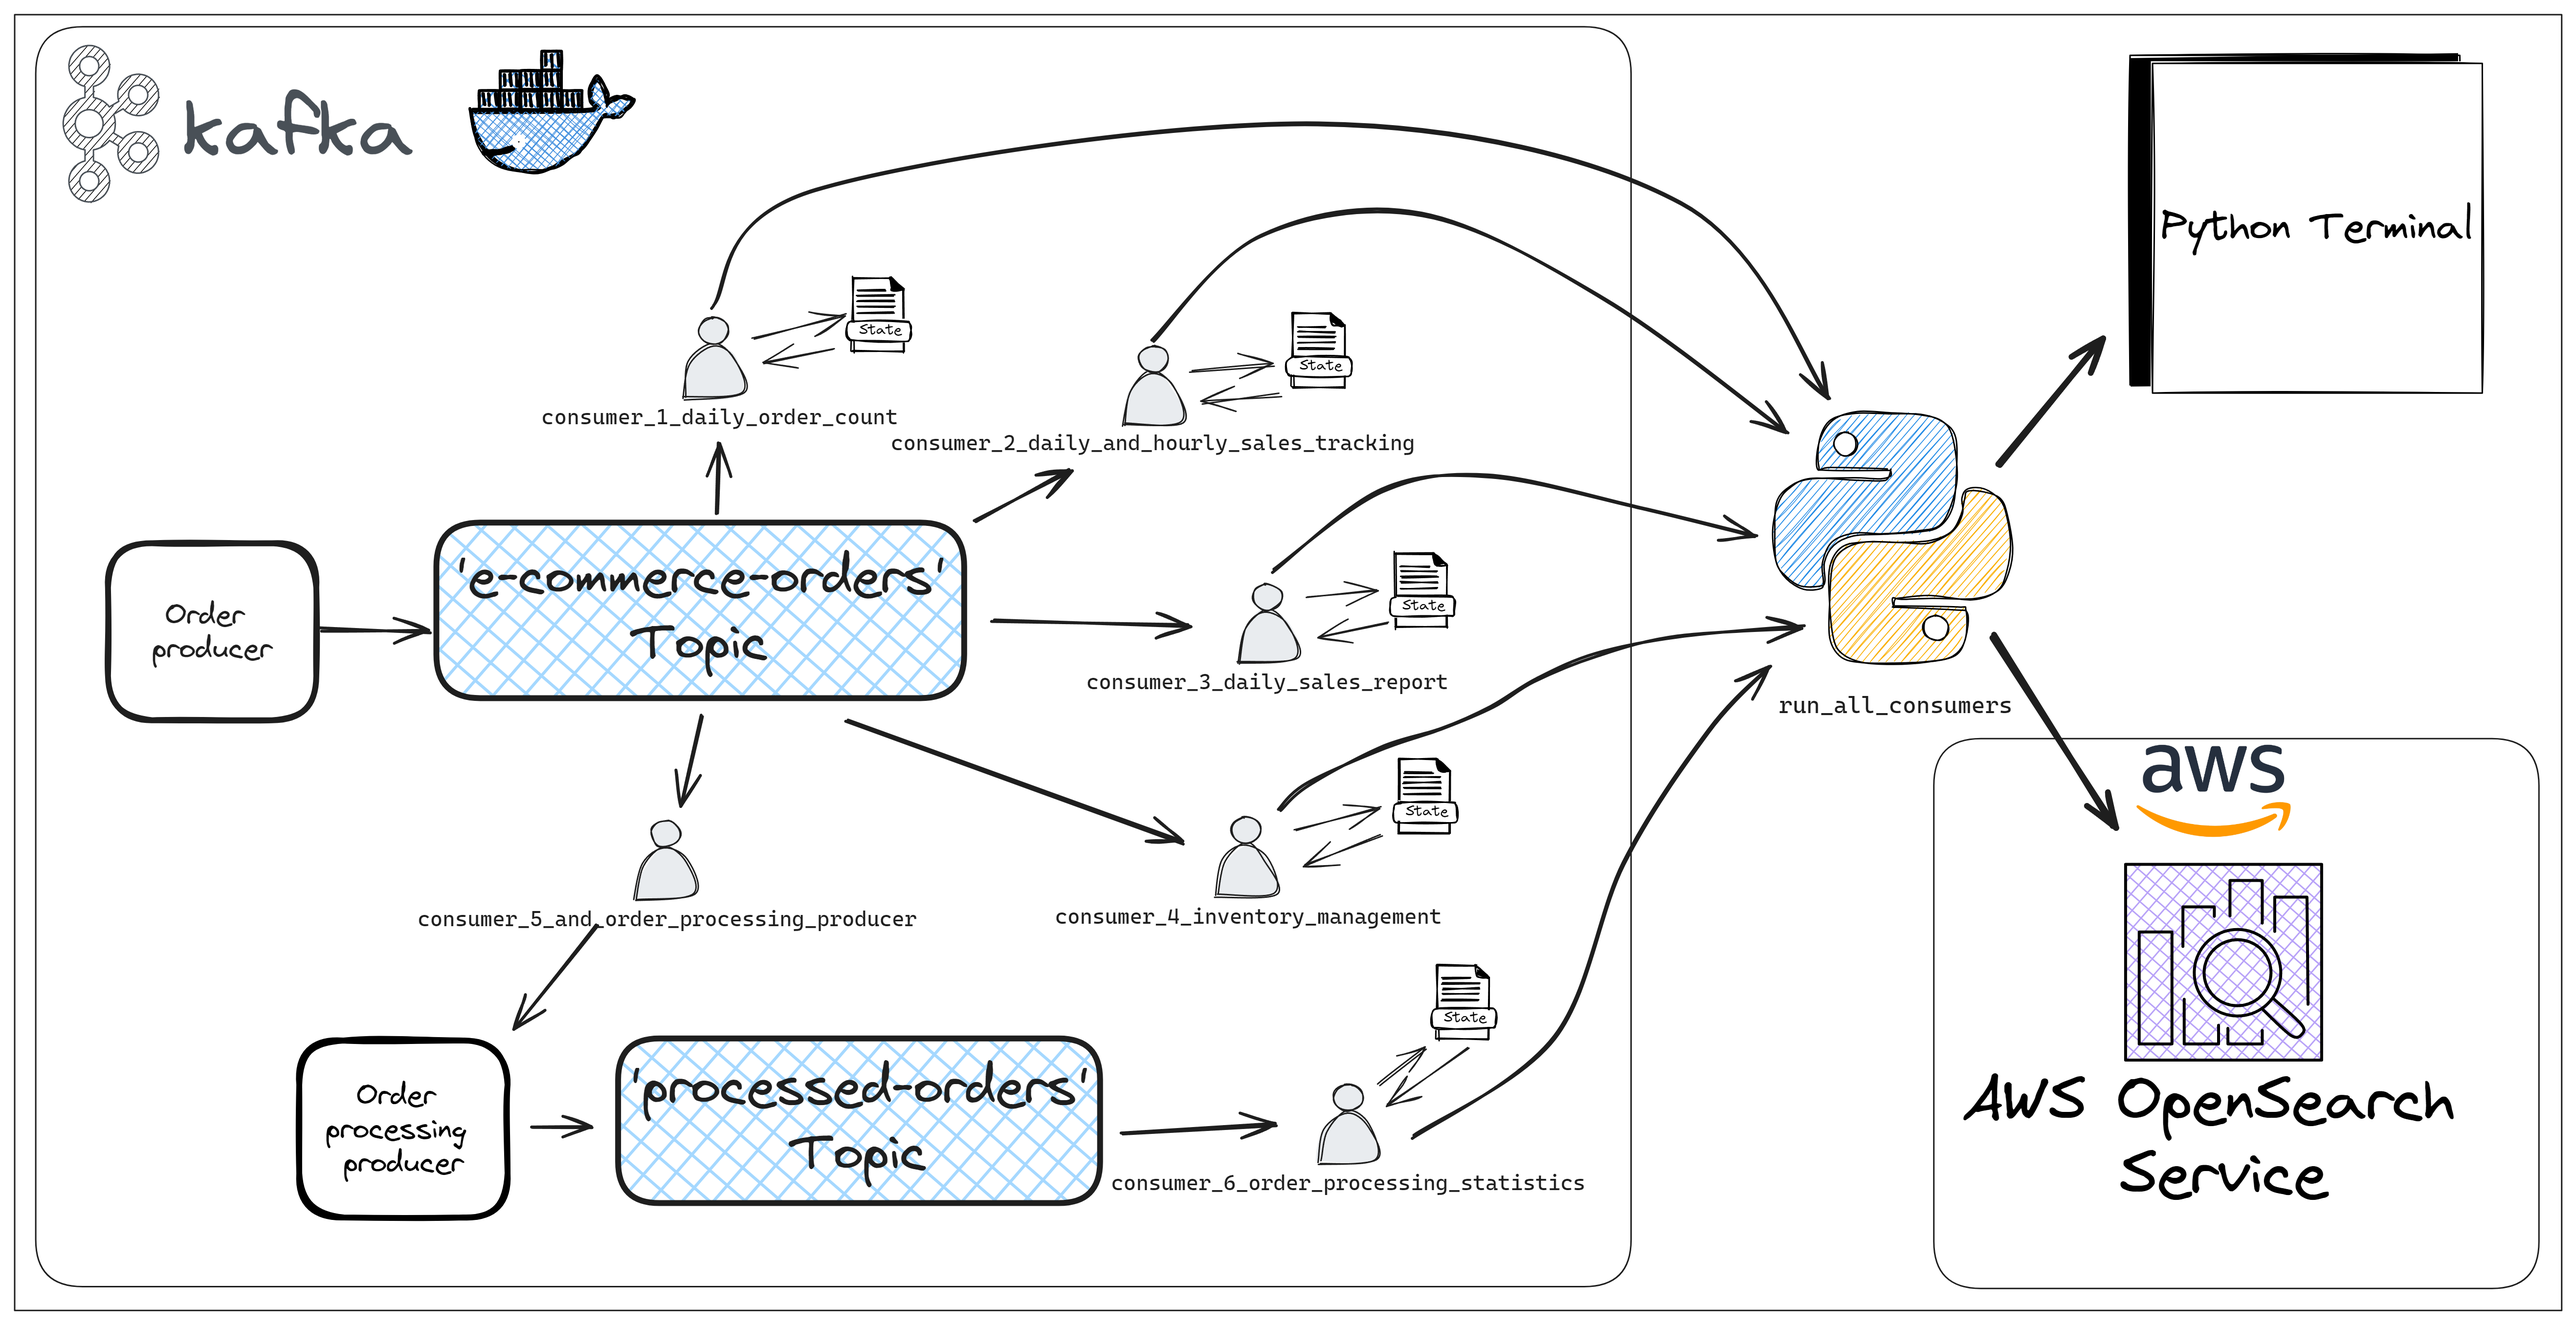
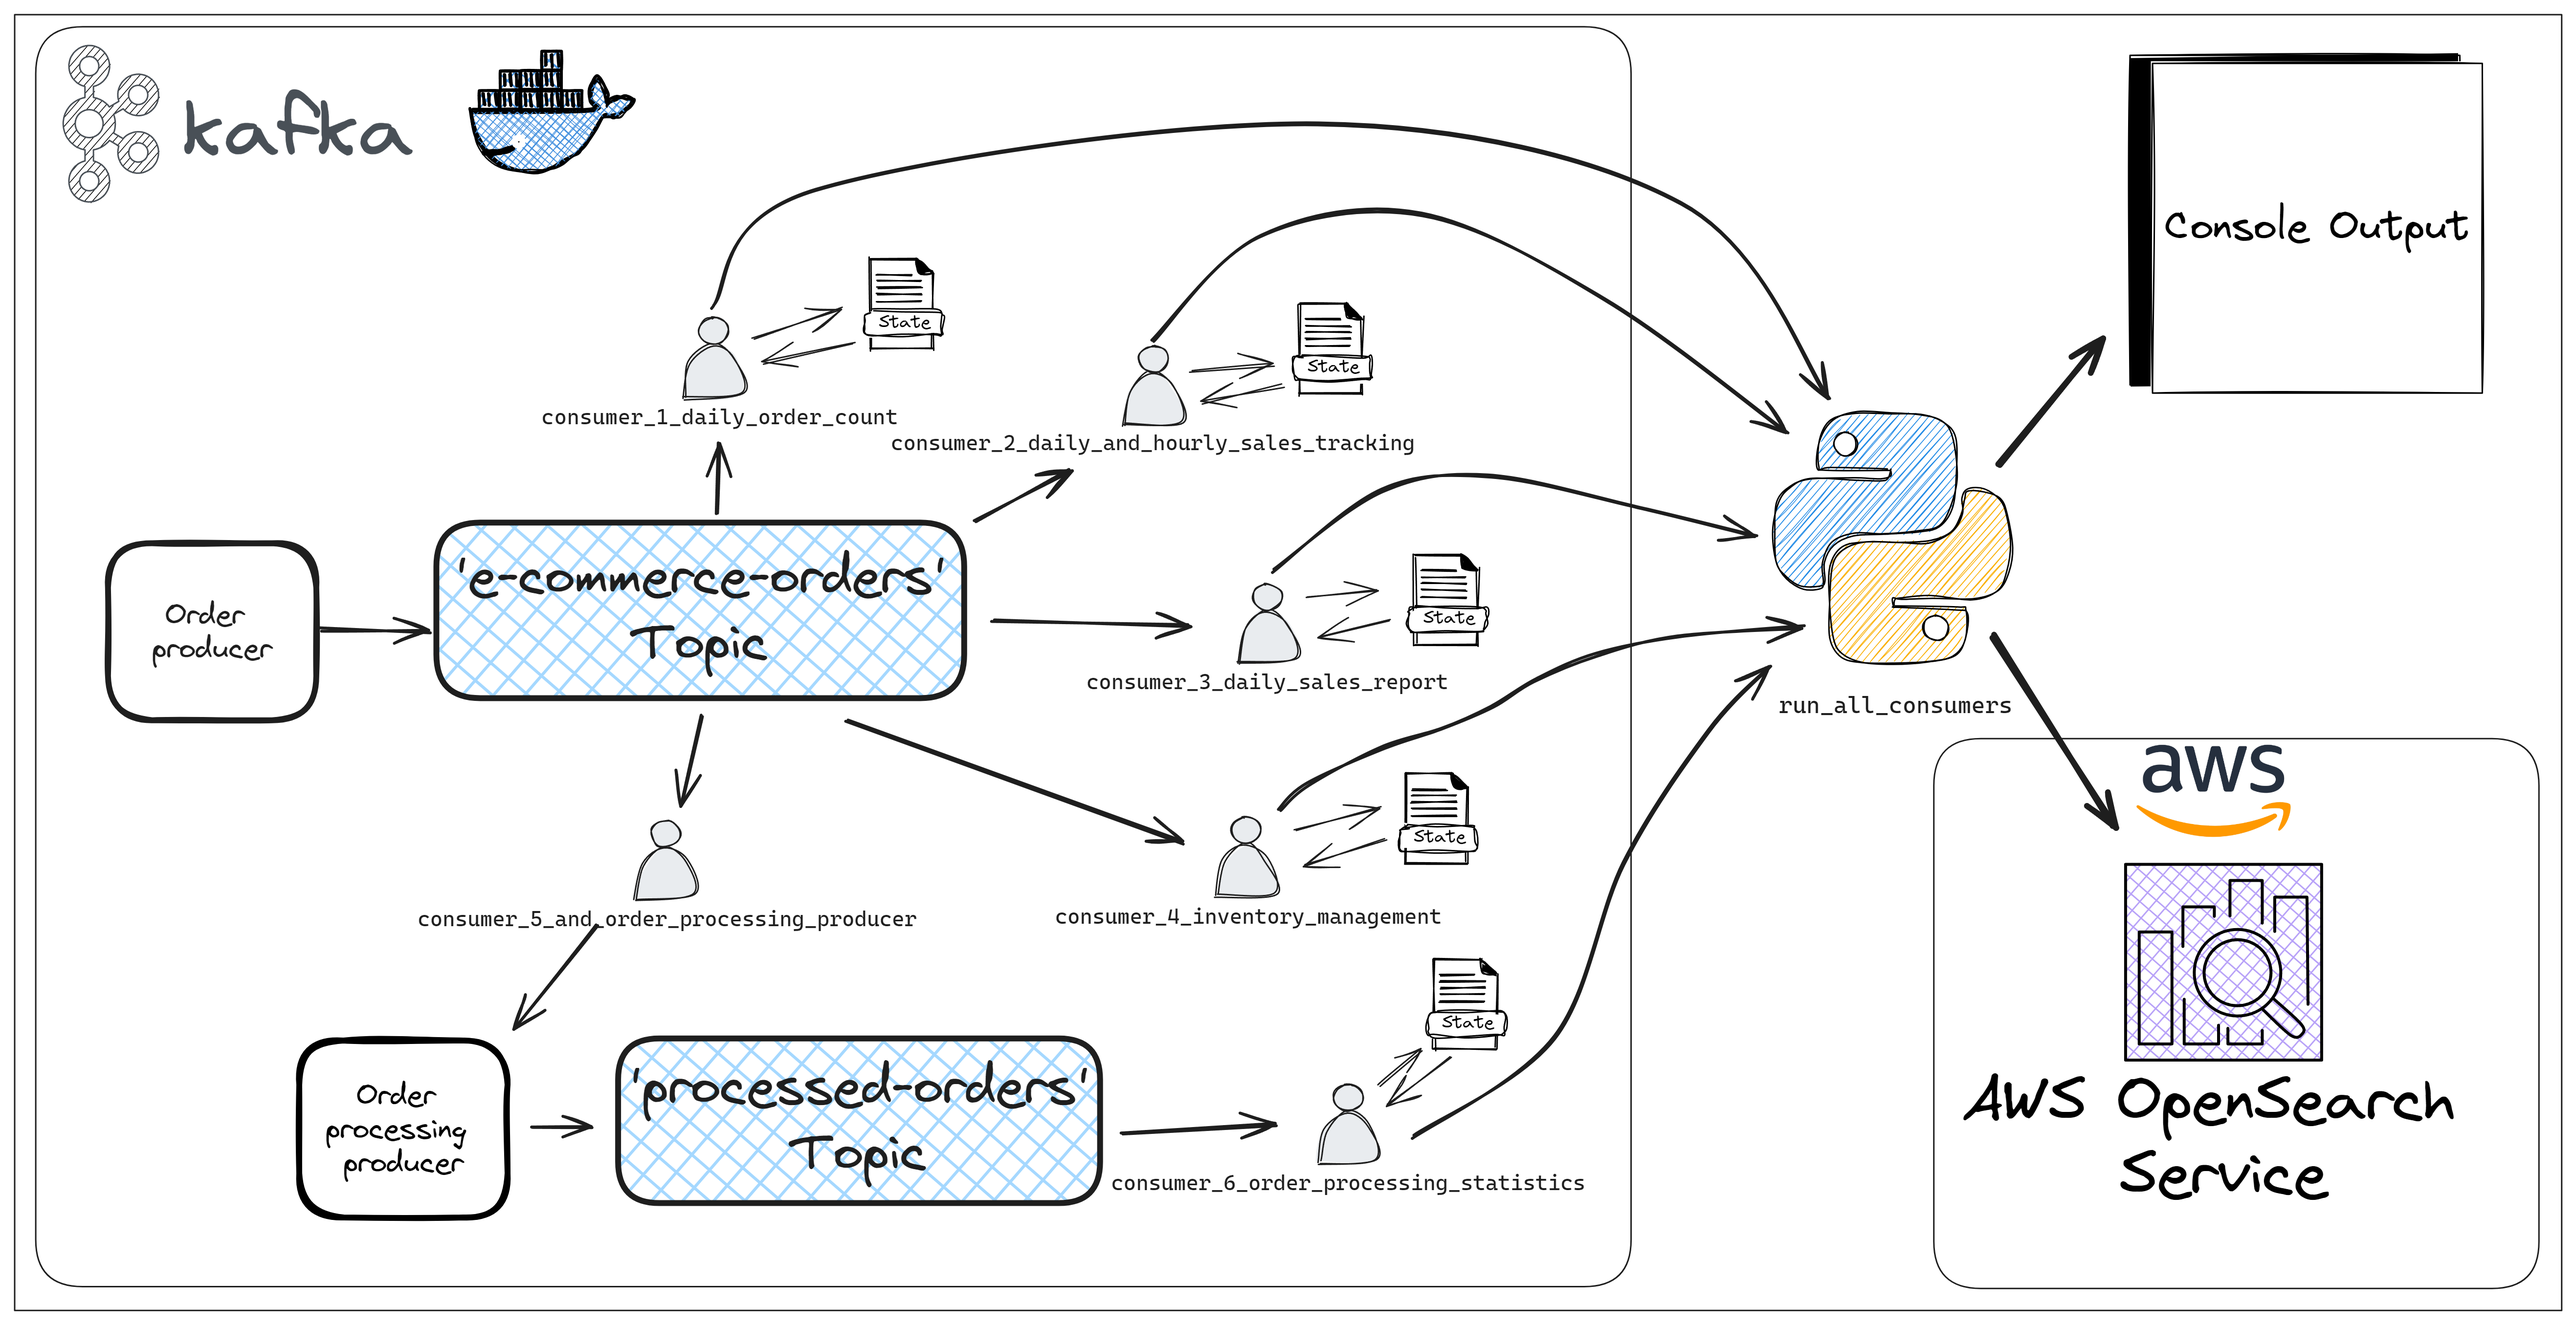
all done

diff --git a/README.md b/README.md
@@ -3,7 +3,7 @@
 ## Project Overview
 The "E-Commerce Kafka Simulator" project is a simplified yet powerful tool designed to mimic the complex order management and data analysis activities seen in e-commerce businesses. It uses Apache Kafka to demonstrate how effectively data streaming can handle tasks like sales monitoring, inventory control, order processing and report generation. Kafka's role in managing real-time data across distributed systems is a highlight of this project.
 
-For ease of use and scalability, Kafka and Zookeeper are run inside Docker containers. The project outputs the results of data processing to both console and AWS OpenSearch for detailed analytics and monitoring. This setup ensures users can easily track and analyze the simulated e-commerce operations in real-time.
+For ease of use and scalability, Kafka and Zookeeper are run inside Docker containers. State management has been implemented to guarantee the safe restart of consumers without losing track of aggregated data, ensuring reliability and continuity in data processing. The project outputs the results of data processing to both console and AWS OpenSearch for detailed analytics and monitoring. This setup ensures users can easily track and analyze the simulated e-commerce operations in real-time.
 
 ## Project Flow Chart
 Below is a flow chart illustrating the project's Kafka-based architecture, highlighting the path of orders from production, through processing, to analysis.
